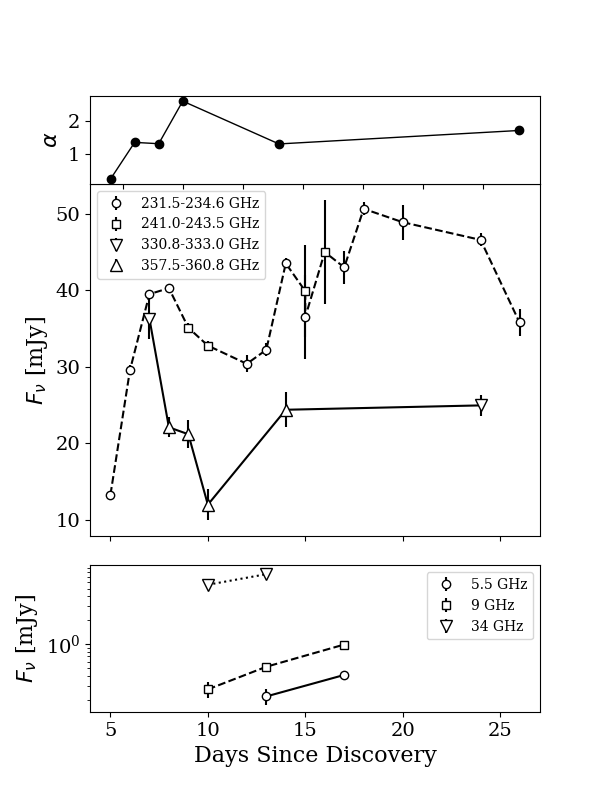
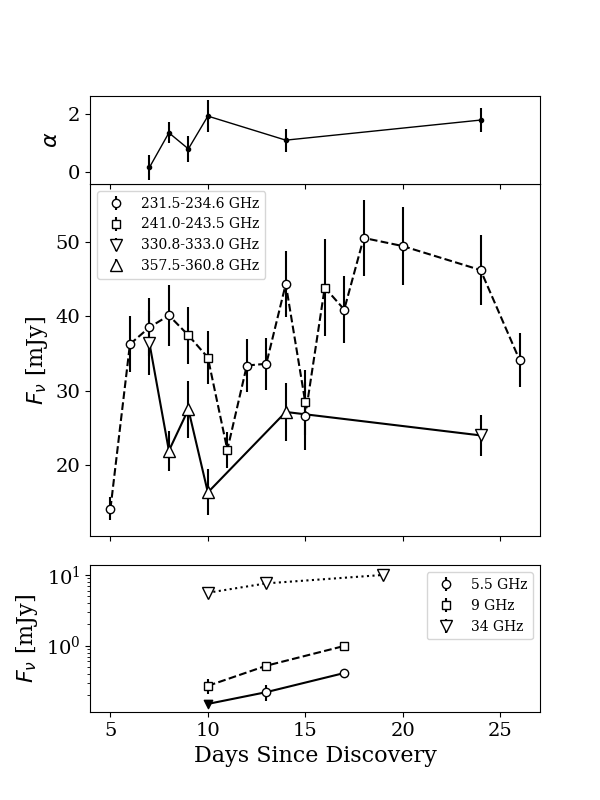
lc with new SMA data and larger uncertainties

diff --git a/paper_plots/plot_lc.py b/paper_plots/plot_lc.py
@@ -1,5 +1,3 @@
-""" Make a grid of light curves from the SMA, ATCA, and Swift/XRT """
-
 import matplotlib.pyplot as plt
 from matplotlib import rc
 rc("font", family="serif")
@@ -8,9 +6,19 @@ import numpy as np
 from astropy.table import Table
 
 
-def spindex(ax, d, nulow, nuhigh, flow, fhigh):
+def spindex(ax, d, nulow, nuhigh, flow, eflow, fhigh, efhigh):
     alpha = np.log10( fhigh / flow ) / np.log10( nulow / nuhigh )
-    ax.scatter(d, alpha, c='k')
+
+    # estimate the uncertainty
+    a = (1 / np.log10(nulow / nuhigh)) 
+    b = flow/fhigh
+    c = np.log10(np.e)
+    dadf_hi = a*b*c* (1/flow) * efhigh
+    dadf_low = a*b*c* (-fhigh/flow**2) * eflow
+    ealpha = np.sqrt(dadf_hi**2 + dadf_low**2)
+
+    #ax.scatter(d, alpha, c='k')
+    ax.errorbar(d, alpha, yerr=ealpha, c='k', fmt='.')
     ax.plot(d, alpha, c='k', lw=1.0)
     ax.set_ylabel("$\\alpha$", fontsize=16)
     ax.yaxis.set_tick_params(labelsize=14)
@@ -27,32 +35,37 @@ def sma(ax):
     flux_raw = np.array(dat['col4'][choose])
     flux = np.array(
             [float(val.split("pm")[0][1:]) for val in flux_raw])
-    flux_err = np.array(
+    eflux = np.array(
             [float(val.split("pm")[1][0:-1]) for val in flux_raw])
+
+    # add 10% systematic uncertainty to everything
+    flux_err = np.sqrt(eflux**2 + (0.10 * flux)**2)
 
     choose = np.logical_and(freq > 230, freq < 235)
     low_freq = min(freq[choose])
     max_freq = max(freq[choose])
 
     ax.errorbar(
-            days[choose], flux[choose], yerr=flux_err[choose], 
-            mfc='white', mec='black', 
-            fmt='.', marker='o', label="%s-%s GHz" %(low_freq, max_freq), c='k')
+            days[choose], flux[choose], flux_err[choose],
+            mfc='white', mec='black', fmt='.', marker='o', 
+            label="%s-%s GHz" %(low_freq, max_freq), c='k')
 
     choose = np.logical_and(freq > 240, freq < 245)
     low_freq = min(freq[choose])
     max_freq = max(freq[choose])
 
     ax.errorbar(
-            days[choose], flux[choose], yerr=flux_err[choose], 
-            mfc='white', mec='black', 
-            fmt='.', marker='s', label="%s-%s GHz" %(low_freq, max_freq), c='k')
+            days[choose], flux[choose], flux_err[choose],
+            mfc='white', mec='black', fmt='.', marker='s', 
+            label="%s-%s GHz" %(low_freq, max_freq), c='k')
 
     choose = np.logical_and(freq > 230, freq < 245)
+    print(flux[choose])
     ax.plot(
             days[choose], flux[choose], linestyle='--', c='k')
     dlow_return = days[choose]
     flow_return_temp = flux[choose]
+    eflow_return_temp = flux_err[choose]
     nulow_return_temp = freq[choose]
 
     choose = np.logical_and(freq > 330, freq < 334)
@@ -60,18 +73,18 @@ def sma(ax):
     max_freq = max(freq[choose])
 
     ax.errorbar(
-            days[choose], flux[choose], yerr=flux_err[choose], 
-            mfc='white', mec='black', ms=8,
-            fmt='.', marker='v', label="%s-%s GHz" %(low_freq, max_freq), c='k')
+            days[choose], flux[choose], flux_err[choose],
+            mfc='white', mec='black', ms=8, fmt='.', marker='v', 
+            label="%s-%s GHz" %(low_freq, max_freq), c='k')
 
     choose = np.logical_and(freq > 357, freq < 361)
     low_freq = min(freq[choose])
     max_freq = max(freq[choose])
 
     ax.errorbar(
-            days[choose], flux[choose], yerr=flux_err[choose], 
-            mfc='white', mec='black', ms=8,
-            fmt='.', marker='^', label="%s-%s GHz" %(low_freq, max_freq), c='k')
+            days[choose], flux[choose], flux_err[choose],
+            mfc='white', mec='black', ms=8, fmt='.', marker='^', 
+            label="%s-%s GHz" %(low_freq, max_freq), c='k')
 
     choose = np.logical_or(
             np.logical_and(freq > 330, freq < 334),
@@ -81,9 +94,11 @@ def sma(ax):
             days[choose], flux[choose], linestyle='-', c='k')
     days_return = days[choose]
     fhigh_return = flux[choose]
+    efhigh_return = flux_err[choose]
     nuhigh_return = freq[choose]
     ind = np.array([np.where(dlow_return==val)[0][0] for val in days_return])
     flow_return = flow_return_temp[ind]
+    eflow_return = eflow_return_temp[ind]
     nulow_return = nulow_return_temp[ind]
 
     ax.set_ylabel("$F_{\\nu}$ [mJy]", fontsize=16)
@@ -91,7 +106,7 @@ def sma(ax):
 
     ax.legend()
 
-    return days_return, nulow_return, nuhigh_return, flow_return, fhigh_return
+    return days_return, nulow_return, nuhigh_return, flow_return, eflow_return, fhigh_return, efhigh_return
 
 
 def atca(ax):
@@ -105,34 +120,49 @@ def atca(ax):
     flux_raw = np.array(dat['col4'][choose])
     flux = np.array(
             [float(val.split("pm")[0][1:]) for val in flux_raw])
-    flux_err = np.array(
+    eflux = np.array(
             [float(val.split("pm")[1][0:-1]) for val in flux_raw])
 
-    choose = freq==5.5
+    # add 10% systematic uncertainty to everything
+    flux_err = np.sqrt(eflux**2 + (0.10 * flux)**2)
+    flux_err[eflux < 0] = -99 # non-detections
+
+    choose_freq = freq==5.5
+
+    # for detections
+    det = flux_err > 0
+    choose = np.logical_and(choose_freq, det)
 
     ax.errorbar(
-            days[choose], flux[choose], yerr=flux_err[choose], 
+            days[choose], flux[choose], flux_err[choose],
             mfc='white', mec='black', 
             fmt='.', marker='o', label="5.5 GHz", c='k')
 
+    # for non-detections
+    choose = np.logical_and(choose_freq, ~det)
+
+    ax.scatter(
+            days[choose], flux[choose], c='k', marker='v')
+
+    # plot a line between all of them to make it clear
+    # which frequency it corresponds to
     ax.plot(
-            days[choose], flux[choose], linestyle='-', c='k')
+            days[choose_freq], flux[choose_freq], linestyle='-', c='k')
 
     choose = freq == 9
 
     ax.errorbar(
-            days[choose], flux[choose], yerr=flux_err[choose], 
+            days[choose], flux[choose], flux_err[choose],
             mfc='white', mec='black', 
             fmt='.', marker='s', label="9 GHz", c='k')
 
     ax.plot(
             days[choose], flux[choose], linestyle='--', c='k')
 
-
     choose = freq == 34
 
     ax.errorbar(
-            days[choose], flux[choose], yerr=flux_err[choose], 
+            days[choose], flux[choose], flux_err[choose],
             mfc='white', mec='black', ms=8,
             fmt='.', marker='v', label="34 GHz", c='k')
 
@@ -160,12 +190,12 @@ gs0 = gridspec.GridSpecFromSubplotSpec(
         2, 1, subplot_spec = gs[0], height_ratios=[1,4], hspace=0)
 #gs0.update(hspace=0.05)
 ax1 = plt.subplot(gs0[1], sharex=atca_ax)#fig.add_subplot(gs[0:5, :])
-days, nulow, nuhigh, flow, fhigh = sma(ax1)
+days, nulow, nuhigh, flow, eflow, fhigh, efhigh = sma(ax1)
 plt.setp(ax1.get_xticklabels(), visible=False)
 
-ax2 = plt.subplot(gs0[0])#fig.add_subplot(gs[0:5, :])
-spindex(ax2, days, nulow, nuhigh, flow, fhigh)
+ax2 = plt.subplot(gs0[0], sharex=atca_ax)#fig.add_subplot(gs[0:5, :])
+spindex(ax2, days, nulow, nuhigh, flow, eflow, fhigh, efhigh)
 plt.setp(ax2.get_xticklabels(), visible=False)
 
-plt.savefig("lc.png")
-#plt.show()
+#plt.savefig("lc.png")
+plt.show()

diff --git a/paper_plots/plot_spec.py b/paper_plots/plot_spec.py
@@ -57,7 +57,7 @@ if __name__=="__main__":
     dat = Table.read(
         "../data/radio_lc.dat", delimiter="&", format='ascii.no_header')
     tel = np.array(dat['col2'])
-    choose = np.logical_or(tel == 'SMA', tel == 'ATCA')
+    choose = np.array([val in np.array(['SMA', 'ATCA', 'ALMA']) for val in tel])
 
     tel = tel[choose]
     days = np.array(dat['col1'][choose])
@@ -73,13 +73,12 @@ if __name__=="__main__":
 
     # plot the spectrum from Day 10 data
     choose = days == 10
-    plt.errorbar(
-            freq[choose], flux[choose], yerr=flux_err[choose],
-            mfc='white', mec='black', fmt='.', marker='o',
-            label="$\Delta t = 10$", c='k')
     order = np.argsort(freq[choose])
-    plt.plot(
-            freq[choose][order], flux[choose][order], c='k', ls=':')
+    plt.errorbar(
+            freq[choose][order], flux[choose][order], 
+            yerr=flux_err[choose][order],
+            mfc='white', mec='black', fmt=':', marker='o',
+            label="$\Delta t = 10$", c='k')
 
     # plot the spectrum from Day 13-14 data
     # ATCA from Day 13, SMA and ALMA from Day 14
@@ -87,32 +86,32 @@ if __name__=="__main__":
             np.logical_and(days == 13, tel == 'ATCA'),
             np.logical_and(days == 14, tel == 'SMA'))
 
+    order = np.argsort(freq[choose])
     plt.errorbar(
-            freq[choose], flux[choose], yerr=flux_err[choose],
-            mfc='white', mec='black', fmt='.', marker='s',
+            freq[choose][order], flux[choose][order], 
+            yerr=flux_err[choose][order],
+            mfc='white', mec='black', fmt='--', marker='s',
             label="$\Delta t = 13-14$", c='k')
 
-    order = np.argsort(freq[choose])
-    plt.plot(
-            freq[choose][order], flux[choose][order], c='k', ls='--')
-
-
     # plot the spectrum from the Day 22 data
-    choose = days == 22
-
-    plt.errorbar(
-            freq[choose], flux[choose], yerr=flux_err[choose],
-            mfc='white', mec='black', fmt='.', marker='v', ms=8,
-            label="$\Delta t = 22$", c='k')
+    choose = np.logical_and(days >= 22, days <= 24)
 
     order = np.argsort(freq[choose])
-    plt.plot(
-            freq[choose][order], flux[choose][order], c='k', ls='-')
+    plt.errorbar(
+            freq[choose][order], flux[choose][order], 
+            yerr=flux_err[choose][order],
+            mfc='white', mec='black', fmt='-', marker='v', ms=8, ls='-',
+            label="$\Delta t = 22-24$", c='k')
 
-    # cols = ['#f2f0f7', '#dadaeb', '#bcbddc', '#9e9ac8', '#807dba', '#6a51a3', '#4a1486']
     #spec_sequence(day_bins, freq, flux, flux_err, lims)
 
     #spectral_index(t, freq, flux, flux_err, lims)
 
-    #plt.legend()
+    plt.xticks(fontsize=14)
+    plt.yticks(fontsize=14)
+    plt.xlabel("Frequency [GHz]", fontsize=16)
+    plt.ylabel("Flux [mJy]", fontsize=16)
+
+    plt.legend()
+
     plt.show()
